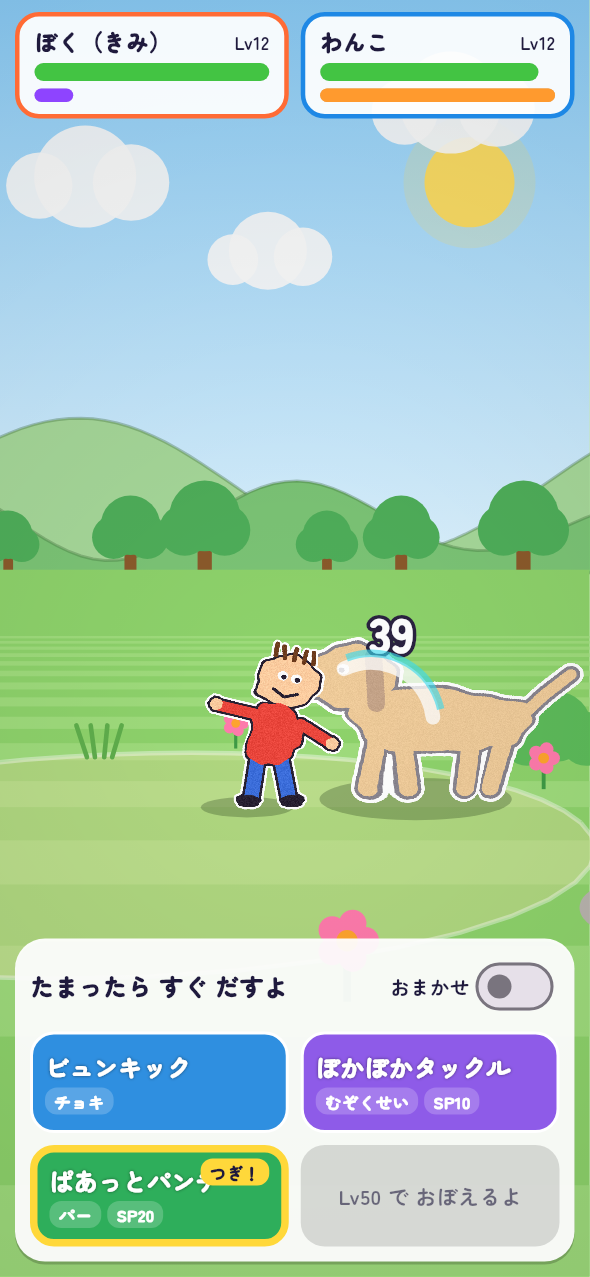
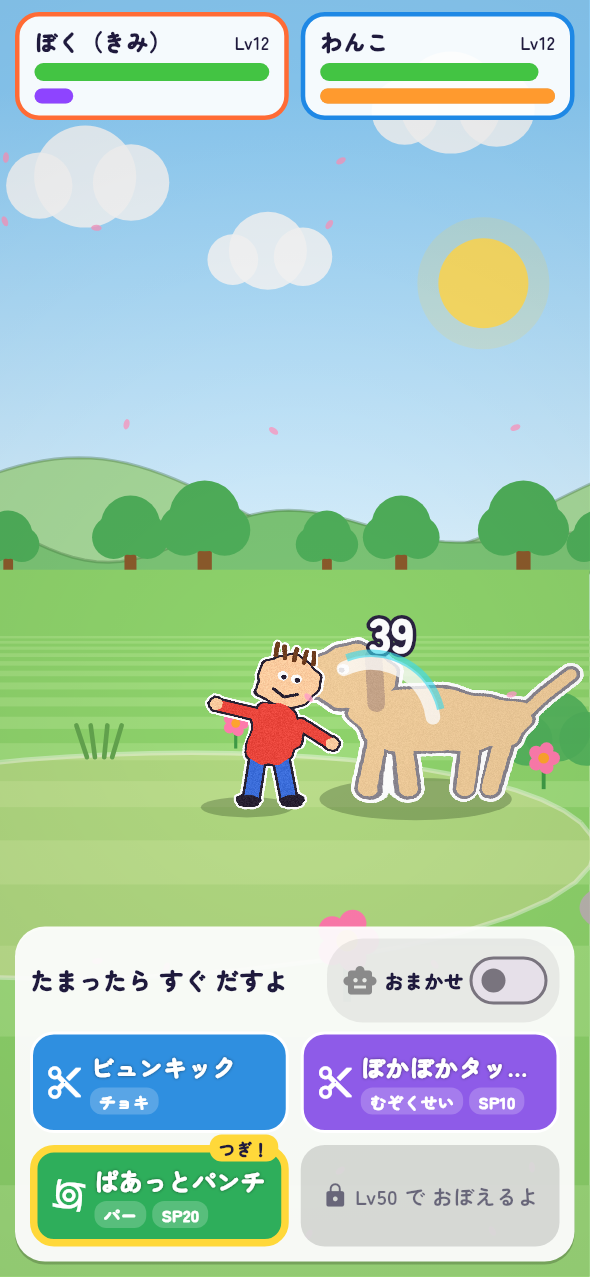
docs: final accuracy and perf numbers; regenerated 2.5D frames (stage themes, editor, drawing tool)
Claude-Session: https://claude.ai/code/session_01QRHLaYFdZHWgzxL5AWfKrR

diff --git a/docs/PUPPET.md b/docs/PUPPET.md
@@ -33,7 +33,7 @@ lib/features/
 | お絵かきツール | クレヨン・ペン・ふで・けしごむ（筆圧なし・太さ固定）、12 色、もどす/やりなおす、ぜんぶけす（確認つき・もどせる）、紙の質感の背景、**画像の取り込み・貼り付けは無し**。かく画面のカメラの下に「アプリで かく」（カメラが主）（§4） |
 | 解析 | 写真と同じパイプライン（正規化・ハッシュ・ホワイトバランス・切り抜き・特徴・子どもの絵らしさ・属性・能力・「もうすこし」）。**省くのは紙の検出／台形補正と本物チェック（印刷・画面・写真・デジタル）だけ**（§4.2） |
 | ステージ | 遠近の地面・影・パララックス背景（**8 テーマ、10 ワールドに割当**）・自動移動・カメラのパン/ズーム/ゆれ・15 vfx × 11 色（＋描いたわざの絵）・ダメージ数字・「ばつぐん！」「いまひとつ…」・状態アイコン。エンジンとは `StageFeed` だけでつながる（§5） |
-| 性能 | 2 体＋ステージの 1 フレーム CPU 記録 **約 0.66 ms（高）/ 0.27 ms（低）**（デスクトップ JIT）。低ティアへの**自動切り替え**（実フレーム時間）。メモリ 2 体 約 1.5 MB、キャッシュ上限 8 MB（§7） |
+| 性能 | 2 体＋ステージの 1 フレーム CPU 記録 **約 0.5〜0.66 ms（高）/ 0.27 ms（低）**（デスクトップ JIT）。低ティアへの**自動切り替え**（実フレーム時間）。メモリ 2 体 約 1.5 MB、キャッシュ上限 8 MB（§7） |
 | かくし要素 | `drawsSimpleLook(CharacterV2)`（domain 層）→ `PuppetLook` で見た目だけに変換。Lv49 まではシンプル（3 色・骨なし・ぷにぷに・エフェクト半分）、**Lv50 は全員でんせつ**（金のオーラ・エフェクト 1.4 倍）。UI にフラグは渡さない |
 
 ## 1. 公開 API（統合チーム向け）
@@ -78,7 +78,17 @@ final outcome = await ref.read(drawFlowProvider).processCanvas(drawing);   // Dr
 
 ### 2.1 前後比較（n=293 GT マスク / 262 アプリの切り抜き）
 
-RESULTS_TABLE
+| | GT スパイク | **GT 製品** | 切り抜き スパイク | **切り抜き 製品** |
+|---|---|---|---|---|
+| 成功（5 点とも 10 % 以内） | 27.6 % | **28.7 %** | 16.4 % | **16.8 %** |
+| だいたい合う（20 % 以内） | 43.0 % | **47.4 %** | 25.2 % | **29.8 %** |
+| 形がそろう（頭・腕 2・脚 2） | 68.6 % | **72.4 %** | 62.2 % | **66.4 %** |
+| 頭 PCK@10 % | 62.1 % | **70.0 %** | 53.8 % | **60.7 %** |
+| 手 PCK@10 % / 見つかった率 | 43.3 / 72.7 % | **46.1 / 76.8 %** | 26.0 / 66.0 % | **27.9 / 71.4 %** |
+| 足 PCK@10 % | 65.5 % | 65.5 % | 46.6 % | 45.0 % |
+| 肩 / 肘 PCK@10 % | 37.9 / 37.9 % | **41.0 / 40.3 %** | 23.3 / 24.0 % | **24.4 / 25.2 %** |
+| hold-out だいたい合う | 43.5 % | **46.9 %** | 25.2 % | **29.0 %** |
+| リグの時間 中央値（JIT） | 7 ms | 10 ms | 7 ms | 10 ms |
 
 （「成功」= 頭・両手・両足が見つかり全部 10 % 以内、「だいたい」= 5 点とも 20 % 以内。調整用 146 枚と hold-out 147 枚の差は小さく、過学習は見られない。）
 
@@ -130,7 +140,7 @@ RESULTS_TABLE
 
 ### 4.1 出力
 
-- 白い背景で 1024px（高さ）の PNG に描き出し（画面の紙の質感は入れない: 色の解析が子どもの色だけを見るように）→ 同じ解析 → 切り抜き PNG。
+- 白い背景で 1024px（高さ）の PNG に描き出し（`v2_25d/draw_canvas_export.png`）（画面の紙の質感は入れない: 色の解析が子どもの色だけを見るように）→ 同じ解析 → 切り抜き PNG。
 - **ストロークリスト**（`StrokeDrawing` JSON ＋ 切り抜きへの写像 `{k, dx, dy}`）を `PendingBirth.strokesJson` で運び、命名時に `PuppetStore.saveStrokesJson`（端末内だけ。サーバーには送らない）。自動リグ・エディタの「さいしょ」が使う。
 
 ### 4.2 写真と同じパイプライン、省いたもの
@@ -176,7 +186,10 @@ RESULTS_TABLE
 
 `test/features/puppet/perf_test.dart`（デスクトップ x86 JIT、393×851、1,200 フレーム平均。2 体＝人と犬、くさはら）:
 
-PERF_TABLE
+| | 三角形（2 体） | 1 体の作成（デコード〜重み、JIT） | エンジン＋演出 | スキニング 2 体 | ステージ全体の記録（背景・小物・2 体の Vertices・VFX） | CPU メモリ（2 体） |
+|---|---|---|---|---|---|---|
+| 高（グリッド 64） | 4,736 | 約 350 ms（初回 JIT 込みで 700 ms） | 約 40 µs | 約 80〜130 µs | **約 0.5〜0.66 ms** | 約 1.5 MB |
+| 低（グリッド 40） | 2,168 | 約 160〜450 ms | 約 20 µs | 約 40 µs | **約 0.27〜0.29 ms** | 約 1.4 MB |
 
 - 低価格端末（Cortex-A53 級、AOT、JIT の 5〜8 倍遅いと仮定）でも UI スレッド 2〜5 ms。キャラの作成は Isolate で 1 回（`PuppetBuilder` が画像＋リグ＋見た目＋品質でキャッシュ）。
 - **自動品質切り替え**（`AdaptiveQuality`）: 実フレーム（build＋raster）が 20 ms を超える割合が 25 % 以上の窓（約 1.5 秒）が 2 回続いたら低ティアへ。戻さない（ちらつき防止）。低ティア: メッシュ 40 セル、小物半分、雲・ビネットなし、粒 40 %。`onQualityChanged` で次のバトルの初期値を覚えておける。
